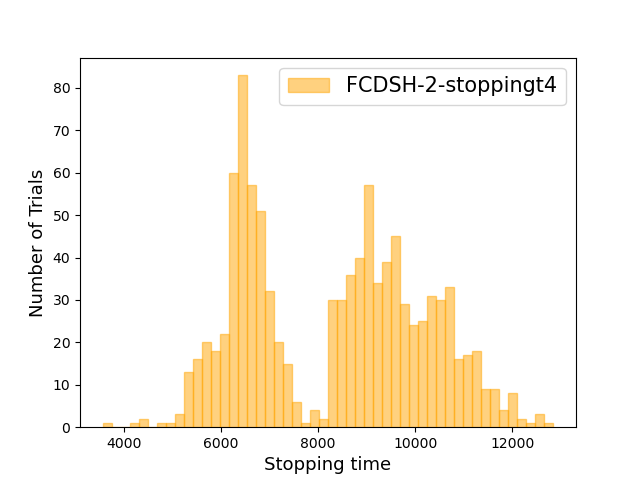
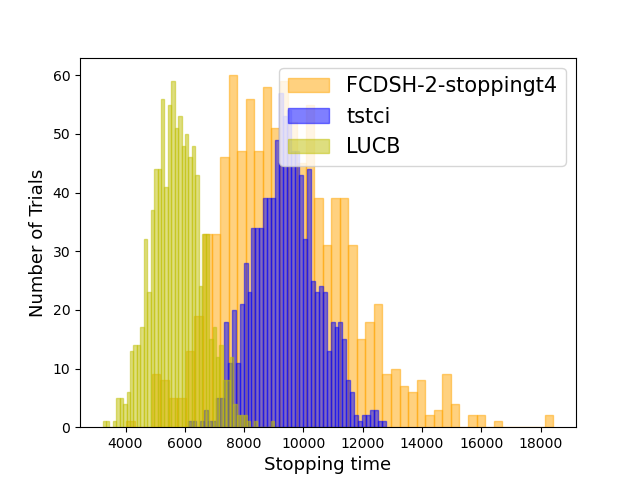
update

diff --git a/run_bai_se_v31.py b/run_bai_se_v31.py
@@ -1,0 +1,112 @@
+import time 
+import numpy as np
+import matplotlib.pyplot as plt
+
+import logging
+
+def run_trials(algo, n_trials, n_arms, mu_best, mu_sub, sigma, delta):
+
+    all_outputs = []
+    all_stop_times = []
+    for trial_idx in range(n_trials):
+        output, stop_time = algo(n_arms, mu_best, mu_sub, sigma, delta)
+        all_outputs.append(output)
+        all_stop_times.append(stop_time)
+
+    return all_outputs, all_stop_times
+
+
+def se(n_arms, mu_best, mu_sub, sigma, delta, max_iter=100000):
+    K = n_arms
+    arm_mus = [mu_best] + [mu_sub]*(K-1)
+
+    b_stopped = False 
+    arm_idxes = [idx for idx in range(n_arms)]
+    arm_idxes = np.arange(K)
+    print(arm_idxes)
+    arm_muhats = np.zeros(K)
+    arm_nsamples = np.zeros(K)
+    arm_sum_rewards = np.zeros(K)
+    for t in range(max_iter):
+        # select arm
+        _nsamples = arm_nsamples[arm_idxes]
+        _idx = np.argmin(_nsamples)
+        a_idx_to_pull = arm_idxes[_idx]
+
+        # sample and get reward
+        _sample = np.random.normal(arm_mus[a_idx_to_pull], sigma)
+        arm_sum_rewards[a_idx_to_pull] += _sample
+        arm_nsamples[a_idx_to_pull] += 1
+
+        if (t < K):
+            continue
+
+        # compute and remove the arms 
+        arm_muhats[arm_idxes] = arm_sum_rewards[arm_idxes]/arm_nsamples[arm_idxes]
+        thres = np.sqrt(2 * np.log(3.3 * K * ((t+1) ** 4) / delta) / arm_nsamples)
+        max_muhat = np.max(arm_muhats)
+
+        for idx, a_idx in enumerate(arm_idxes):
+            if (max_muhat - arm_muhats[a_idx] >= thres[a_idx]):
+                # Means.remove(Means[j])
+                arm_muhats[a_idx] = float('-inf')
+                arm_idxes = np.delete(arm_idxes, idx)
+                break
+        
+        if len(arm_idxes) <= 1:
+            b_stopped = True 
+            break
+
+        
+    return arm_idxes[0], t  
+
+
+def main():
+    color_list = ['skyblue','g','r']
+    np.random.seed(1)
+    
+    n_arms = 4
+    sigma = 1
+    mu_best = 1
+    mu_sub = 1 - 0.1
+    delta = 0.05
+    
+    n_trials = 10
+
+    algo_names = ["FC-DSH", "FC-DSH-reuse"]
+    algo_names = ["se"]
+    
+    for idx, algo_name in enumerate(algo_names):
+        # algo = create_algo(algo_name)
+        start_time = time.time()
+        trials_outputs, trials_stop_times = \
+            run_trials(se, n_trials, n_arms, mu_best, mu_sub, sigma, delta)
+        total_time = time.time() - start_time
+        logging.info(f"it takes {total_time:0.2f}")
+
+        num_corrects = np.sum(np.array(trials_outputs) == 0)
+        # logging.debug(trials_outputs)
+        logging.info(f"accuracy = {num_corrects/n_trials:0.4f}")
+    
+        plt.hist(
+            trials_stop_times, bins=10, color=color_list[idx],
+            alpha=0.5, edgecolor=color_list[idx], label=algo_name, lw=3)
+  
+    plt.xticks(fontsize=13)
+    plt.yticks(fontsize=13)
+
+    plt.xlabel('Stopping time', fontsize=13)
+    plt.ylabel('Number of Trials', fontsize=13)
+    # plt.title('Histogram of stopping times')
+    plt.legend(fontsize=15)
+    plt.savefig(f"fc_dsh_compare.png", format='png')
+    # plt.savefig(method + '.pdf', format='pdf')
+    plt.show()
+
+if __name__ == "__main__":
+    main()
+
+
+
+
+

diff --git a/plot_data.py b/plot_data.py
@@ -49,7 +49,7 @@ color_list = ['skyblue','g','r', 'y', 'b', 'orange']
 
 version = "v14"
 
-filename = f"results/all_stopping_times_fcsh-2_1000_v34.txt"
+filename = f"results/all_stopping_times_fcsh-1.01_1000_v34.txt"
 all_stopping_times = np.loadtxt(filename)
 print(len(all_stopping_times))
 print(f"max = {np.max(all_stopping_times):0.4f}")
@@ -64,34 +64,34 @@ plt.hist(
     alpha=0.5, edgecolor=color_list[5], label="FCDSH-2-stoppingt4", lw=3)
 
 
-# filename = f"results/all_stopping_times_tstci_1000_{version}.txt"
-# all_stopping_times = np.loadtxt(filename)
-# print(len(all_stopping_times))
-# print(f"max = {np.max(all_stopping_times):0.4f}")
-# print(f"min = {np.min(all_stopping_times):0.4f}")
-# kurt = kurtosis(all_stopping_times, fisher=False)
-# print(f"kurt = {kurt}")
-# # hill = hill_estimator(all_stopping_times, 5)
-# # print(f"hill = {hill}")
+filename = f"results/all_stopping_times_tstci_1000_{version}.txt"
+all_stopping_times = np.loadtxt(filename)
+print(len(all_stopping_times))
+print(f"max = {np.max(all_stopping_times):0.4f}")
+print(f"min = {np.min(all_stopping_times):0.4f}")
+kurt = kurtosis(all_stopping_times, fisher=False)
+print(f"kurt = {kurt}")
+# hill = hill_estimator(all_stopping_times, 5)
+# print(f"hill = {hill}")
 
-# plt.hist(
-#     all_stopping_times, bins=50, color=color_list[4],
-#     alpha=0.5, edgecolor=color_list[4], label="tstci", lw=3)
+plt.hist(
+    all_stopping_times, bins=50, color=color_list[4],
+    alpha=0.5, edgecolor=color_list[4], label="tstci", lw=3)
 
 
-# filename = f"results/all_stopping_times_lucb_1000_{version}.txt"
-# all_stopping_times = np.loadtxt(filename)
-# print(len(all_stopping_times))
-# print(f"max = {np.max(all_stopping_times):0.4f}")
-# print(f"min = {np.min(all_stopping_times):0.4f}")
-# kurt = kurtosis(all_stopping_times, fisher=False)
-# print(f"kurt = {kurt}")
-# # hill = hill_estimator(all_stopping_times, 5)
-# # print(f"hill = {hill}")
+filename = f"results/all_stopping_times_lucb_1000_{version}.txt"
+all_stopping_times = np.loadtxt(filename)
+print(len(all_stopping_times))
+print(f"max = {np.max(all_stopping_times):0.4f}")
+print(f"min = {np.min(all_stopping_times):0.4f}")
+kurt = kurtosis(all_stopping_times, fisher=False)
+print(f"kurt = {kurt}")
+# hill = hill_estimator(all_stopping_times, 5)
+# print(f"hill = {hill}")
 
-# plt.hist(
-#     all_stopping_times, bins=50, color=color_list[3],
-#     alpha=0.5, edgecolor=color_list[3], label="LUCB", lw=3)
+plt.hist(
+    all_stopping_times, bins=50, color=color_list[3],
+    alpha=0.5, edgecolor=color_list[3], label="LUCB", lw=3)
 
 
 # filename = f"results/all_stopping_times_fcsh-1.01_1000_{version}.txt"

diff --git a/kjbandits.py b/kjbandits.py
@@ -1092,19 +1092,19 @@ def run_bandit_lucb(algo, env, delta, max_iter, sigma_sq = 1.0):
         if (t < env.K):
             continue
 
-        if algo.success_yes:
-            b_stopped = True
-            break
-        
-        # hatmus = algo.get_empirical_means()
-        # min_W_n = calc_min_W_n(hatmus, algo.n_pulls, delta, sigma_sq)
-        # logging.debug(f"min_W_n = {min_W_n}")
-        # table.update('i_t', t, i_t)
-        # table.update('min_W_n', t, min_W_n)
-
-        # if (min_W_n > c_n_delta(t, delta = delta/(t**4), K = env.K)):
+        # if algo.success_yes:
         #     b_stopped = True
         #     break
+        
+        hatmus = algo.get_empirical_means()
+        min_W_n = calc_min_W_n(hatmus, algo.n_pulls, delta, sigma_sq)
+        logging.debug(f"min_W_n = {min_W_n}")
+        table.update('i_t', t, i_t)
+        table.update('min_W_n', t, min_W_n)
+
+        if (min_W_n > c_n_delta(t, delta = delta/(t**2), K = env.K)):
+            b_stopped = True
+            break
 
     # if (b_stopped == False):
     #     table.update('did_not_stop', 0, True)
